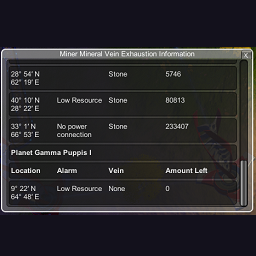
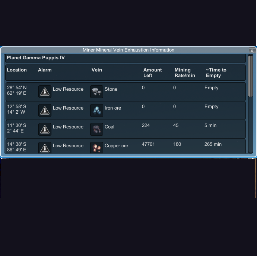
Bumped versions for release 0.4 and added new screenshots. Updated changelog.md

diff --git a/MineralExhaustionNotifier/MineralExhaustionNotifier.cs b/MineralExhaustionNotifier/MineralExhaustionNotifier.cs
@@ -9,7 +9,7 @@ using UnityEngine;
 
 namespace DSPPlugins_ALT
 {
-    [BepInPlugin("net.toppe.bepinex.dsp.veinexhaustion", "Mineral Vein Exhaustion Plug-In", "0.5.0.0")]
+    [BepInPlugin("net.toppe.bepinex.dsp.veinexhaustion", "Mineral Vein Exhaustion Plug-In", "0.4.0.0")]
     public class MineralExhaustionNotifier : BaseUnityPlugin
     {
         public static bool showDialog = true;

diff --git a/MineralExhaustionNotifier/Properties/AssemblyInfo.cs b/MineralExhaustionNotifier/Properties/AssemblyInfo.cs
@@ -32,5 +32,5 @@ using System.Runtime.InteropServices;
 // You can specify all the values or you can default the Build and Revision Numbers
 // by using the '*' as shown below:
 // [assembly: AssemblyVersion("1.0.*")]
-[assembly: AssemblyVersion("0.3.0.0")]
-[assembly: AssemblyFileVersion("0.3.0.0")]
+[assembly: AssemblyVersion("0.4.0.0")]
+[assembly: AssemblyFileVersion("0.4.0.0")]

diff --git a/MineralExhaustionNotifier/changelog.md b/MineralExhaustionNotifier/changelog.md
@@ -1,26 +1,36 @@
 
-== MineralExhaustionNotified v0.4
+## MineralExhaustionNotified v0.4
+
+* Fixed the issue where vein type was none for completely exhausted veins.
+* Added textures for the resources/veins and for the menu button.
+* Calculate estimated time until exhaustion for the veins.
+
+### Commit log from 'v0.3' to 'v0.4' (most recent changes are listed on top):
+
+6508348 Bumped versions for release 0.4 and added new screenshots
+b0a230e Added changelog.txt
+50db0a9 Replaced menu button background with a round circle texture
+4522d09 Get last mined resource from signstate.icon. Draw resource texture and alarm texture. Cleanup.
 
 
-
-
-== MineralExhaustionNotified v0.3
+## MineralExhaustionNotified v0.3
 
 * Fixed: The notification box was retriggered too often due to a flag not being set.
 
-=== Commit log from 'v0.2' to 'v0.3' (most recent changes are listed on top):
+### Commit log from 'v0.2' to 'v0.3' (most recent changes are listed on top):
+
 c0fc1d0 Update README.md
 7430df7 The notification box was retriggered too often due to a flag not being set. Fixed images in readme for thunder. Only copy local files to output that should be a part of the release.
 
 
 
-== MineralExhaustionNotified v0.2
+## MineralExhaustionNotified v0.2
 
 * Hide GUI when F11 - hidden is active.
 * Show GUI when in space/sail mode.
 * Fixed a bug where the input capture for the notification window was too greedy, resulting in a non-controllable flying mech. Now only captures mouse events inside the window.
 
-=== Commit log from 'v0.1' to 'v0.2' (most recent changes are listed on top):
+### Commit log from 'v0.1' to 'v0.2' (most recent changes are listed on top):
 
 578df85 Added back root readme, fixed location for images in mineralexhaustionnotifier readme. Added logo and manifest.json for dsp.thunderstore.io
 3b4cf2e Moved project to a subfolder. Made output from debug build go to normal bin/Debug, but instead have a post-build check that copies the result over if it is on my dev computer.
@@ -33,7 +43,7 @@ ceb3a7c Update README.md
 
 
 
-== MineralExhaustionNotified v0.1
+## MineralExhaustionNotified v0.1
 
 First release. Works fine for me, but haven't been tested on other peoples computers yet. RFC.
 The plugin will periodically check the miners for an alarm (Low Power, Low Production Yield), and/or if they remaining mineral they can mine is low or none.

diff --git a/MineralExhaustionNotifier/README.md b/MineralExhaustionNotifier/README.md
@@ -17,20 +17,34 @@ After launching one time there will be a config file you can edit in %steamapps\
 
 The plugin will periodically check the miners for an alarm (Low Power, Low Production Yield), and/or if they remaining mineral they can mine is low or none.
 
-If a miner is detected with this condition a first time notification window will pop up, but afterwards only available through the toggle button [M] on lower right,
+If a miner is detected with this condition a first time notification window will pop up, but afterwards only available through the toggle button (M) on lower right,
 or by pressing the hot key.
 
 If you have cleared out all faulty miners by default this will allow a popup notification to occur again.
 
 #### Quick Key map (configurable) : 
 
-* I : Toggle Mineral Vein Information Window</li>
+* I : Toggle Mineral Vein Information Window
 
-## Screnshots
+## Screenshots
 
 ![Notification Box](https://raw.githubusercontent.com/alekslt/DSPPlugins_ALT/master/MineralExhaustionNotifier/Screenshots/InfoWindow.PNG)
 
 ![Full screen example image](https://raw.githubusercontent.com/alekslt/DSPPlugins_ALT/master/MineralExhaustionNotifier/Screenshots/FullGame.PNG)
+
+## Changes in last release
+
+### MineralExhaustionNotified v0.4
+
+* Fixed the issue where vein type was none for completely exhausted veins.
+* Added textures for the resources/veins and for the menu button.
+* Calculate estimated time until exhaustion for the veins.
+
+## Verified working with game versions
+
+* Dyson Sphere Project 0.6.16.5759
+* Dyson Sphere Project 0.6.15.5706
+* Dyson Sphere Project 0.6.15.5686
 
 ## Acknowledgements
 
